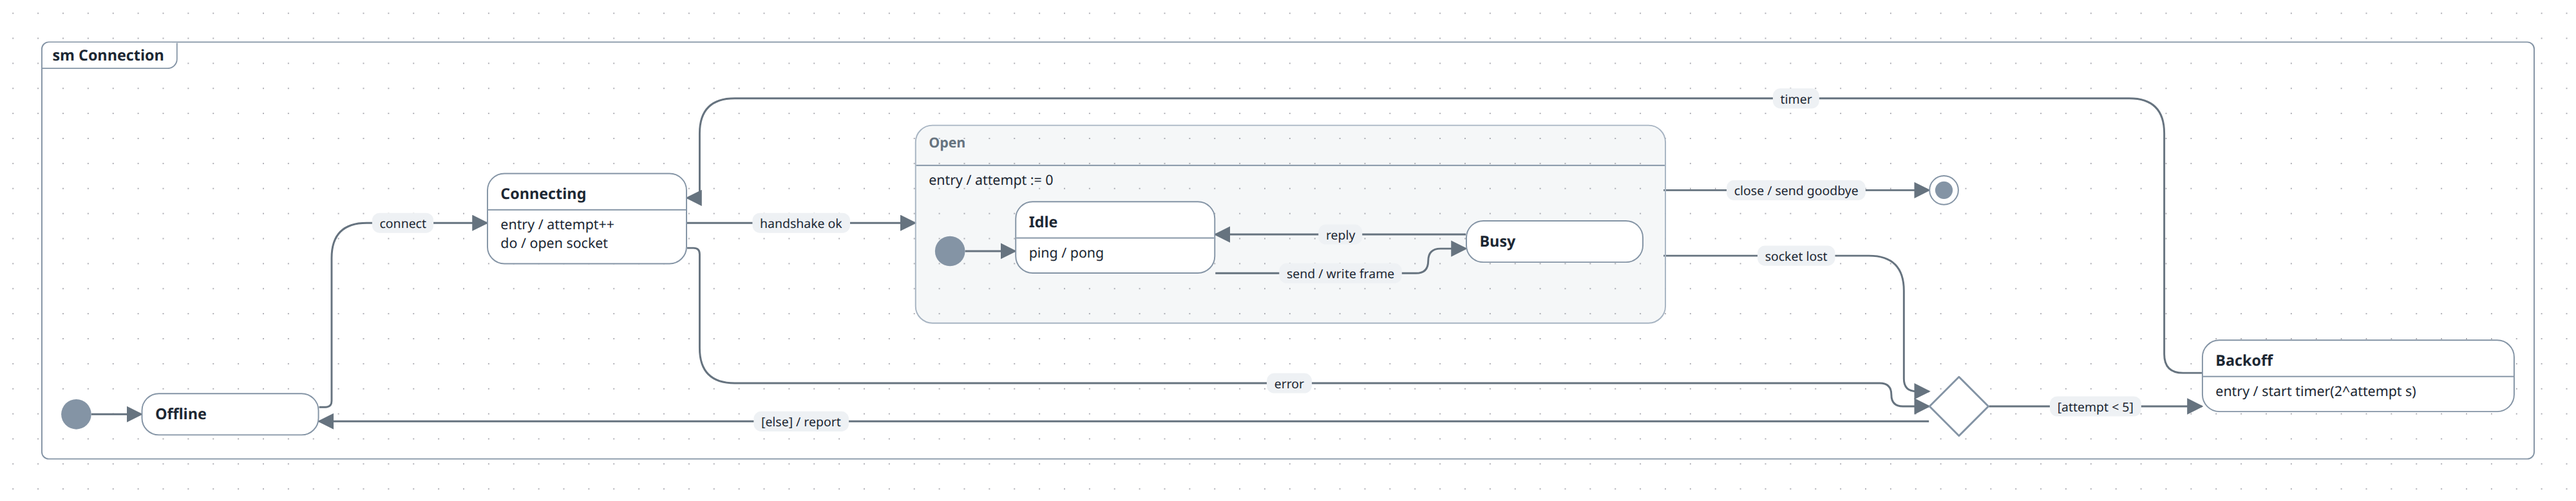
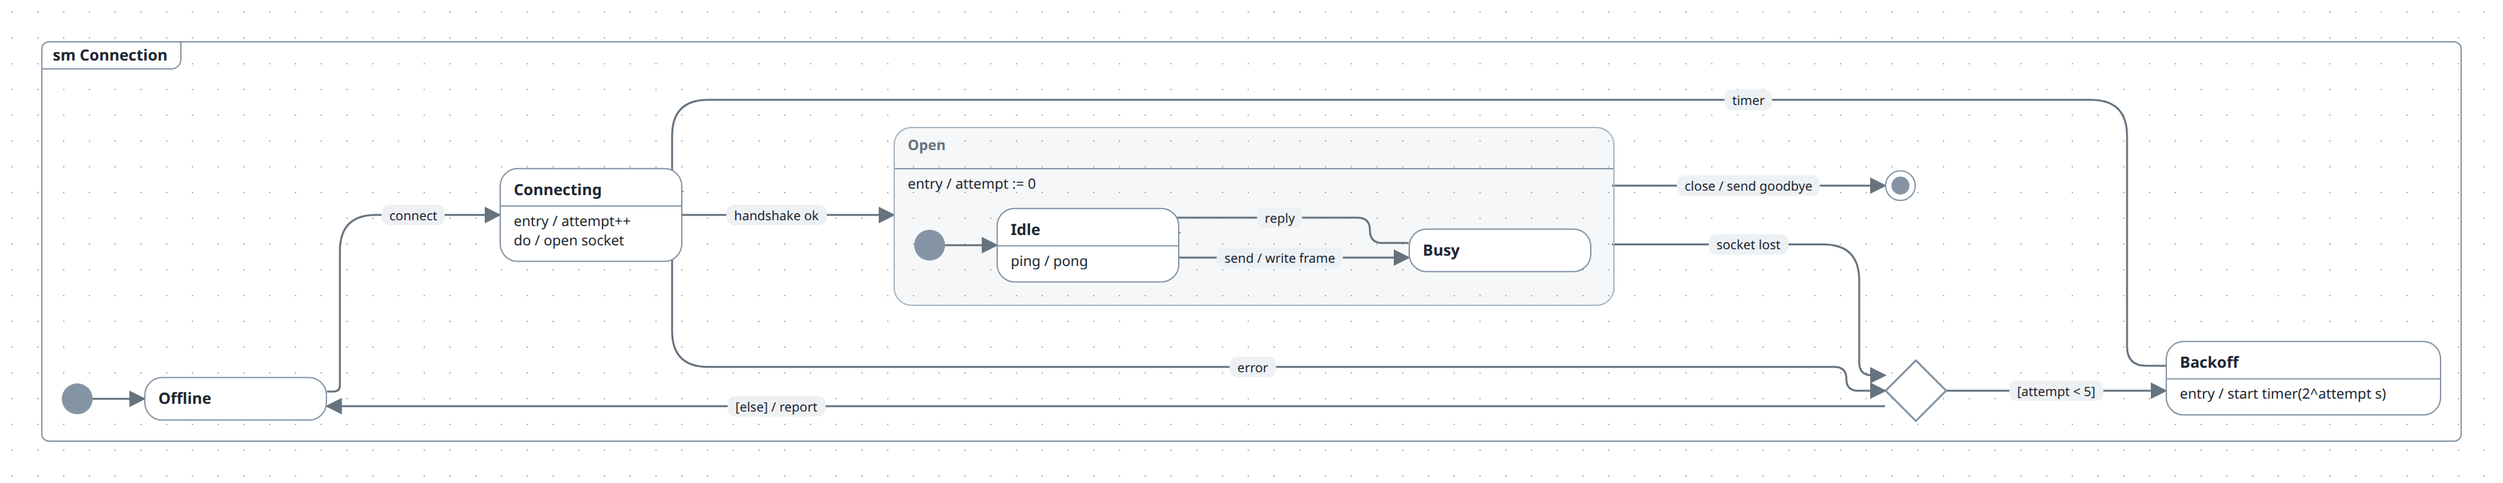
fix(renderer): a state with behaviours is laid out at the size it is drawn

diff --git a/packages/renderer/src/layout/size-hints.ts b/packages/renderer/src/layout/size-hints.ts
@@ -1,6 +1,5 @@
 import {
   DEFAULT_IMAGE_NODE_SIZE,
-  LEAF_SIZE,
   runsToPlainText,
   SM_STATE_TYPE,
   type DiagramModel,
@@ -10,7 +9,7 @@ import {
 import { FORCED_SIZE_SHAPES } from './box-size';
 import type { SizeHint } from './layout-graph';
 import { CAPTION_HEIGHT, captionWidth, estimateLabelSize, glyphCaptionSize } from '../node/label-size';
-import { behaviorLines, STATE_DIVIDER_HEIGHT } from '../node/behavior-lines';
+import { behaviorCompartmentHeight, behaviorWidth } from '../node/behavior-lines';
 import { tableSize } from '../node/table-ports';
 import type { NotationProfile } from '../notations';
 import type { Registry, TypeStyle } from '../registry';
@@ -33,21 +32,20 @@ const tableRule: Rule = (n, ctx) => {
   return tableSize(n.columns, n.name);
 };
 
-/** A state's behaviours are drawn under its name, so a leaf state grows with them:
- * the name and one line each, sized as a multiline label, and never smaller than
- * the layout's leaf. A state without any, or with a saved size, takes the usual
- * rules. A folded composite draws them the same way, so withBoxSizes keeps this
+/** A state's behaviours are drawn under its name, so a leaf state grows with them: the
+ * name's box, then the divider and a row a line at the behaviours' own smaller font,
+ * as wide as the longest line, since the lines never wrap (StateBody). The box is
+ * drawn at its content's height, so this must be that height, not more: arrows meet
+ * the box the layout reserved. A state without any, or with a saved size, takes the
+ * usual rules. A folded composite draws them the same way, so withBoxSizes keeps this
  * hint over its folded box where it is the larger; an open one lists them under
  * its header, in room its padding makes (containerPad), and this hint goes unused. */
 const stateRule: Rule = (n, ctx) => {
   if (n.type !== SM_STATE_TYPE || ctx.sizes?.[n.id] !== undefined) return undefined;
-  const lines = behaviorLines(n);
-  if (lines.length === 0) return undefined;
-  const text = estimateLabelSize([n.name, ...lines].join('\n'), n.fontScale);
-  return {
-    width: Math.max(LEAF_SIZE.width, text.width),
-    height: Math.max(LEAF_SIZE.height, text.height + STATE_DIVIDER_HEIGHT),
-  };
+  const behaviors = behaviorCompartmentHeight(n);
+  if (behaviors === 0) return undefined;
+  const name = estimateLabelSize(n.name, n.fontScale);
+  return { width: Math.max(name.width, behaviorWidth(n)), height: name.height + behaviors };
 };
 
 /** Multiline or rich leaf box labels: an estimated footprint, so elk does not

diff --git a/packages/renderer/src/node/behavior-lines.ts b/packages/renderer/src/node/behavior-lines.ts
@@ -10,9 +10,24 @@ export const STATE_DIVIDER_HEIGHT = 9;
 /** one behaviour line: styles.css .dg-sm-behaviors, 11px at a line height of 1.4 */
 const BEHAVIOR_LINE_HEIGHT = 15.4;
 
-/** The height the behaviours compartment takes under an open composite's header: the
- * divider and a line each, 0 for a state with none. The container's top padding grows by
- * it (containerPad), so the substates start below the list. */
+/** One behaviour character at 11px, leaning wide. The box takes the layout's width as
+ * a floor (node-frame.ts), so an estimate past the drawn line only leaves room on its
+ * right, while one short of it lets the line push the box past where its arrows meet it. */
+const BEHAVIOR_CHAR = 6;
+/** a box's padding and border across: styles.css .dg-node, 10px a side and 1px of border */
+const BOX_SIDES = 22;
+
+/** The width a state's longest behaviour line takes in its box, padding included: the
+ * lines never wrap (.dg-sm-behavior), so the box grows to it. 0 for a state with none. */
+export function behaviorWidth(node: Pick<DiagramNode, 'behaviors'>): number {
+  const rows = behaviorLines(node).flatMap((line) => line.split('\n'));
+  if (rows.length === 0) return 0;
+  return Math.round(Math.max(...rows.map((r) => [...r].length)) * BEHAVIOR_CHAR + BOX_SIDES);
+}
+
+/** The height the behaviours compartment takes, under a leaf state's name or an open
+ * composite's header: the divider and a row a line, 0 for a state with none. An open
+ * composite's top padding grows by it (containerPad), so the substates start below the list. */
 export function behaviorCompartmentHeight(node: Pick<DiagramNode, 'behaviors'>): number {
   const lines = behaviorLines(node).flatMap((line) => line.split('\n'));
   return lines.length === 0 ? 0 : Math.ceil(STATE_DIVIDER_HEIGHT + lines.length * BEHAVIOR_LINE_HEIGHT);

diff --git a/packages/renderer/src/layout/size-hints.test.ts b/packages/renderer/src/layout/size-hints.test.ts
@@ -125,6 +125,29 @@ describe('sizeHintFor, a state-machine state', () => {
     expect(full!.height).toBeGreaterThan(LEAF_SIZE.height);
   });
 
+  // The drawn sizes below were measured in Chrome (StateBody, styles.css): a state's
+  // behaviours sit one to a row at 11px and never wrap, so the box is as wide as its
+  // longest line and 34 + 9 + 15.4 px a line tall.
+  it('reserves the height the box is drawn at, one row a line, however long the lines', () => {
+    const active = [
+      { trigger: 'receiver books a coin', effect: 'reserve the coin' },
+      { trigger: 'booking becomes final', effect: 'the coin is spent' },
+      { trigger: 'booking is released', effect: 'the coin is free again' },
+      { trigger: 'return date arrives', effect: 'the return can start' },
+    ];
+    const hint = sizeHintFor(node({ type: 'sm-state', name: 'ACTIVE', behaviors: active }), plain)!;
+    expect(Math.abs(hint.height - 104)).toBeLessThanOrEqual(2);
+  });
+
+  it('reserves at least the width of its longest line, which the box grows to', () => {
+    const behaviors = [
+      { trigger: 'signature check job', guard: 'still not verified, checks left', effect: 'count the check' },
+    ];
+    const hint = sizeHintFor(node({ type: 'sm-state', name: 'VALIDATION_RETRYING', behaviors }), plain)!;
+    expect(hint.width).toBeGreaterThanOrEqual(364);
+    expect(Math.abs(hint.height - 58)).toBeLessThanOrEqual(2);
+  });
+
   it('leaves a state with a saved size to that size', () => {
     expect(sizeHintFor(node({ type: 'sm-state', behaviors }), saved('n', 200, 200))).toBeUndefined();
   });
